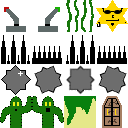
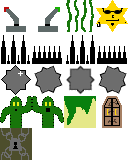
doors and switches are ready

diff --git a/js/main.js b/js/main.js
@@ -20,7 +20,8 @@ document.addEventListener('DOMContentLoaded', function () {
    initPlayer();
 
    //Crafty.scene("test_stage");
-   Crafty.scene("stage_01");
+   //Crafty.scene("stage_01");
+   Crafty.scene("stage_03");
 });
 
 function nextLevel() {
@@ -32,27 +33,27 @@ function restartLevel() {
 }
 
 Crafty.scene("test_stage", function() {
-   //TEST
-   console.log("TEST");
-   loadLevel(window.level1);
-   return;
-
    //loadPica('pixel-pica', 10, 10);
    //var pica = loadPica('legs-pica', 10, 100);
    var pica = loadPica('hands-pica', 10, 100);
 
+/*
    newRoamer(150, 10);
    newRoamer(350, 10);
    newRoamer(450, 10);
    newRoamer(650, 10);
+*/
 
    var floor = Crafty.e("2D, " + window.renderMethod + ", Color, Collision, Floor")
          .color("blue")
          .attr({h:30, w:1000, x:0, y:380});
 
-   var door = Crafty.e("2D, " + window.renderMethod + ", Color, door, solid")
-         .color("pink")
-         .attr({h:100, w:20, x:200, y:280});
+   var door = Crafty.e("2D, " + window.renderMethod + ", Color, door, door-a, solid")
+         .attr({h:32, w:32, x:200, y:348});
+   var door = Crafty.e("2D, " + window.renderMethod + ", Color, door, door-a, solid")
+         .attr({h:32, w:32, x:200, y:316});
+   var door = Crafty.e("2D, " + window.renderMethod + ", Color, door, door-a, solid")
+         .attr({h:32, w:32, x:200, y:284});
 
    Crafty.e('2D, ' + window.renderMethod + ', vines')
          .attr({h:300, w:50, x:400, y:80});
@@ -67,7 +68,7 @@ Crafty.scene("test_stage", function() {
          .attr({h:32, w:32, x:600, y:348});
 
    // Add the switch
-   loadDoorSwitch(pica, 100, 350, door);
+   Crafty.e("2D, " + window.renderMethod + ", switch-a, switch-off").attr({'w': 16, 'h': 16, 'x': 100, 'y': 350});
 });
 
 Crafty.scene("loading", function() {

diff --git a/js/env.js b/js/env.js
@@ -7,7 +7,8 @@ function initEnv() {
                                            'cactus': [0, 3],
                                            'platform': [2, 3],
                                            'start': [3, 3],
-                                           'goal': [3, 0]});
+                                           'goal': [3, 0],
+                                           'door': [0, 4]});
 
    Crafty.c('moving-spikes', {
       init: function() {
@@ -36,17 +37,4 @@ function initEnv() {
    // Anything that hurts you.
    // Pica will take care of the colision callback.
    Crafty.c('trap');
-}
-
-function loadDoorSwitch(pica, x, y, targetDoor) {
-   Crafty.e("2D, " + window.renderMethod + ", switch-off").attr({'w': 16, 'h': 16, 'x': x, 'y': y});
-
-   pica.addComponent("Collision").onHit("switch-off", function(hit) {
-      // Replace the old switch
-      hit[0].obj.destroy();
-      Crafty.e("2D, " + window.renderMethod + ", switch-on").attr({'w': 16, 'h': 16, 'x': x, 'y': y});
-
-      // Remove the door
-      targetDoor.destroy();
-   });
 }

diff --git a/js/player.js b/js/player.js
@@ -60,6 +60,24 @@ function initPlayer() {
                this.die();
             });
 
+            // This is a bit hacky and assumes at most two switches.
+            this.onHit('switch-a', function(hit) {
+               Crafty.e("2D, " + window.renderMethod + ", switch-on")
+                     .attr({'w': hit[0].obj.w, 'h': hit[0].obj.h, 'x': hit[0].obj.x, 'y': hit[0].obj.y});
+               hit[0].obj.destroy();
+
+               // Remove all 'A' doors.
+               Crafty('door-a').destroy();
+            });
+            this.onHit('switch-b', function(hit) {
+               Crafty.e("2D, " + window.renderMethod + ", switch-on")
+                     .attr({'w': hit[0].obj.w, 'h': hit[0].obj.h, 'x': hit[0].obj.x, 'y': hit[0].obj.y});
+               hit[0].obj.destroy();
+
+               // Remove all 'B' doors.
+               Crafty('door-b').destroy();
+            });
+
             this.bind('EnterFrame', function() {
                if (this.hasHands && this.onVines) {
                   if (upIsDown() && !downIsDown()) {

diff --git a/editor.html b/editor.html
@@ -12,8 +12,10 @@
          <select id="element_selector">
              <option value="platform, solid, Floor">Platform</option>
              <option value="vines">Vine</option>
-             <option value="switch">Switch</option>
-             <option value="door">Door</option>
+             <option value="switch-a, switch-off">Switch A</option>
+             <option value="switch-b, switch-off">Switch B</option>
+             <option value="door, door-a, solid">Door A</option>
+             <option value="door, door-b, solid">Door B</option>
              <option value="spikes, moving-spkies, trap">Spike</option>
              <option value="saw, spinning-saw, trap">Saw</option>
              <option value="cactus, punching-cactus, trap">Cactus</option>
